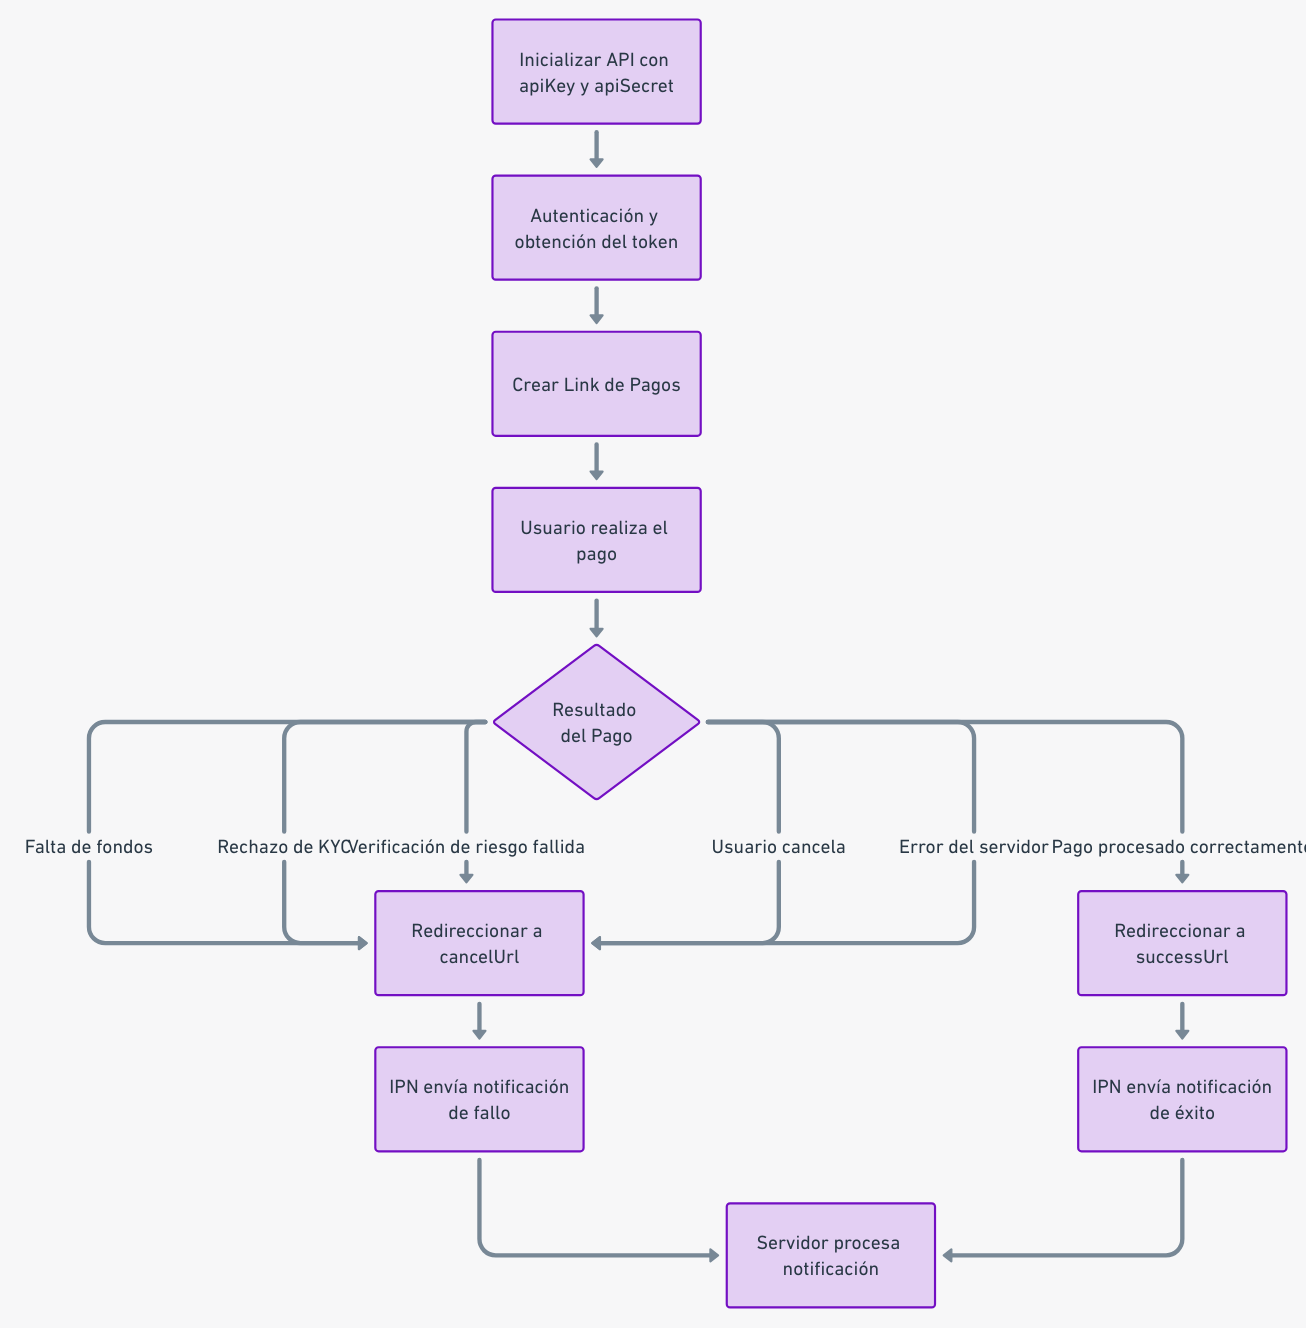
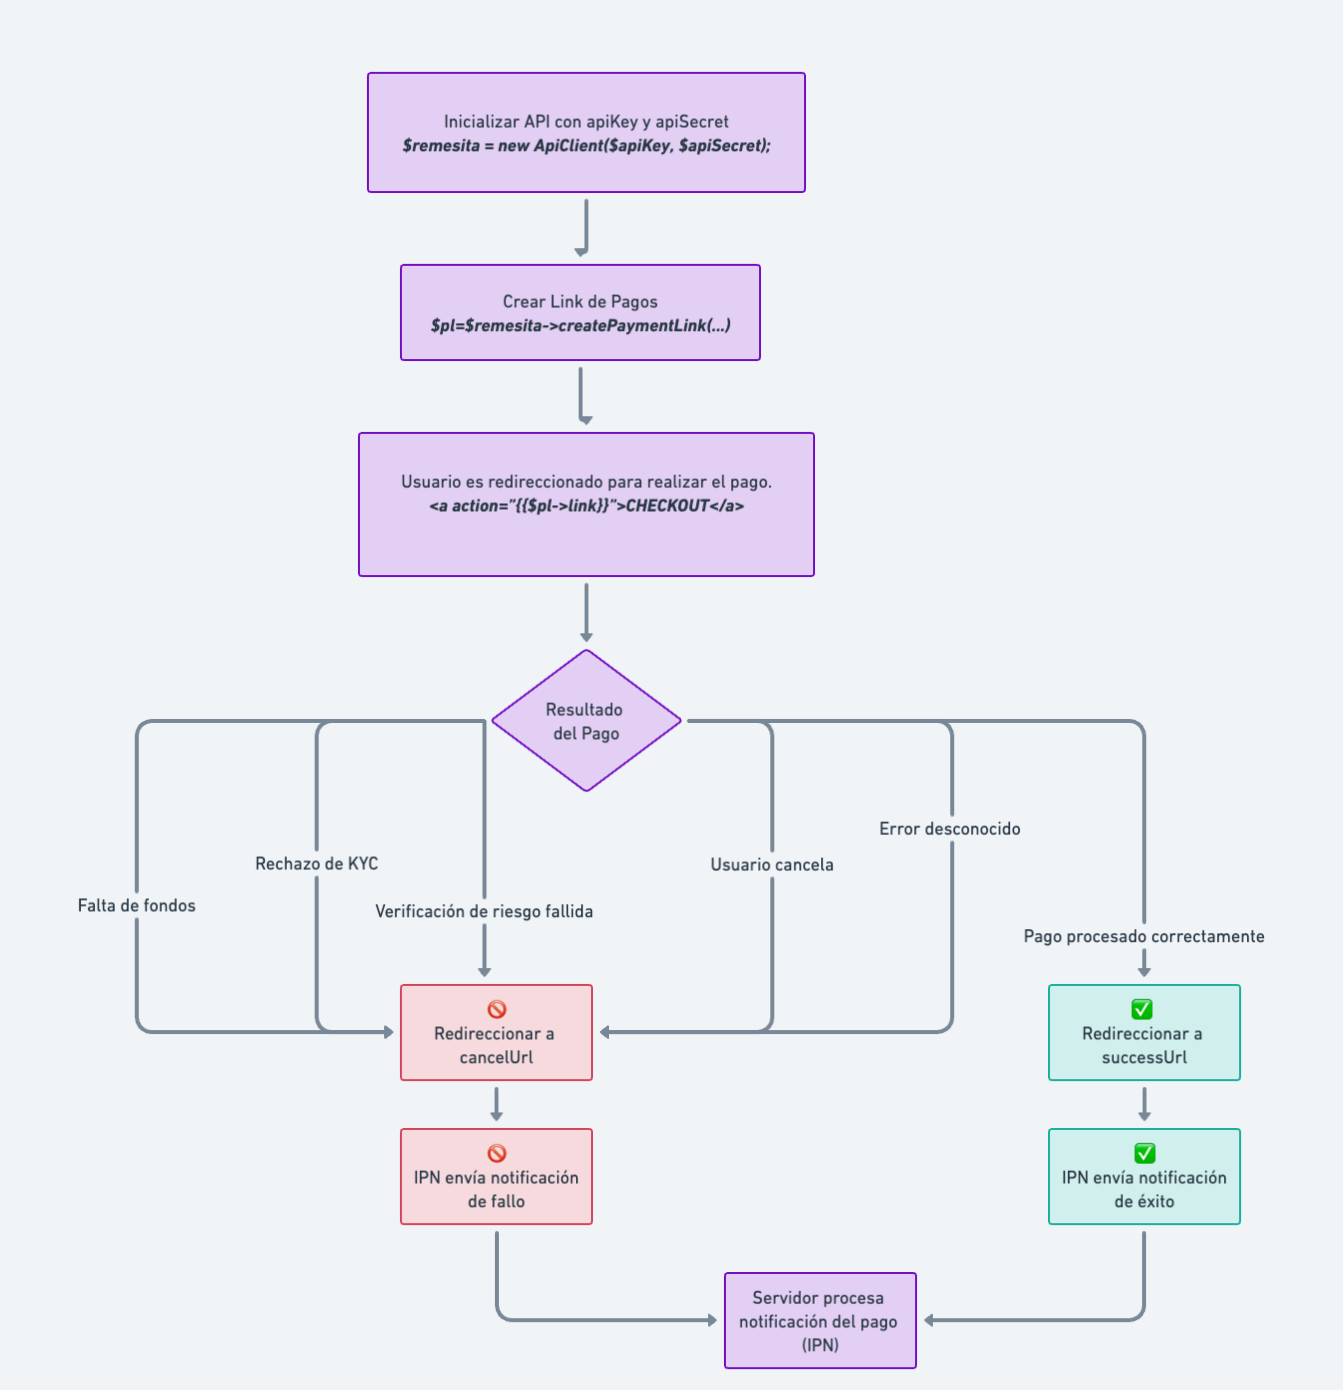
mejorando diagrama

Changed region(s): [[0.0613, 0.0, 1.0, 0.988], [0.0306, 0.6175, 0.1531, 0.741]]

diff --git a/README.md b/README.md
@@ -182,7 +182,7 @@ $ipnUrl="https://miweb.com/ipn?id=$myExternalOrderCartId";
 /** 
  * @var Remesita\DTO\PaymentLinkResponse $pl
  */
-$pl=$api->createPaymentLink(
+$pl=$remesita->createPaymentLink(
     $myBusinessUnitId,
     $amount,
     $concept,
